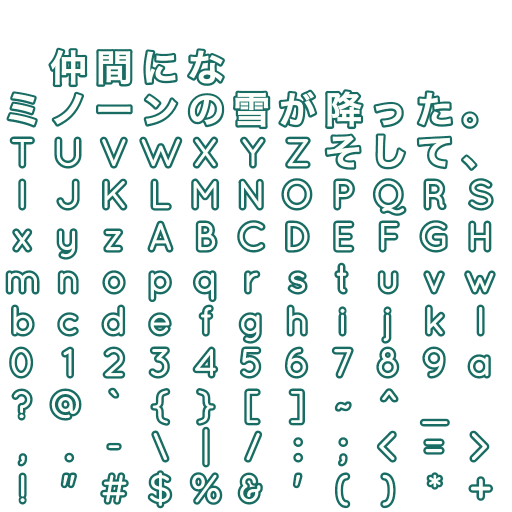
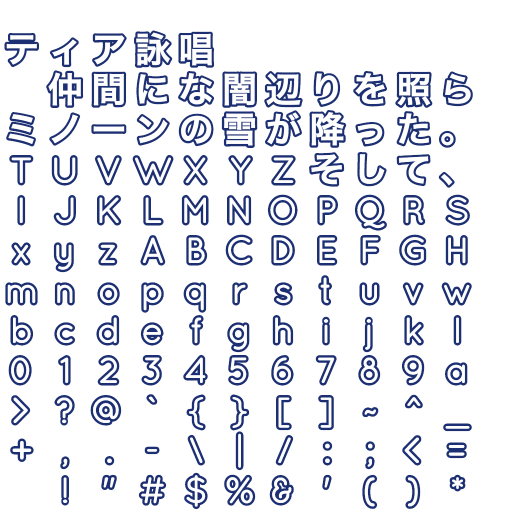
mod clear scene

Changed region(s): [[0.0, 0.0625, 0.9688, 1.0], [0.0938, 0.875, 0.1562, 1.0], [0.0, 0.0625, 0.0938, 0.125]]

diff --git a/demo/mino/lib/gui/clearscene.dart b/demo/mino/lib/gui/clearscene.dart
@@ -13,17 +13,38 @@ class ClearScene extends TinyDisplayObject {
   TinyRect fontDstRect;
   BitmapFontInfo fontInfo;
   TinyPaint p = new TinyPaint();
-  static final String messageOne = "ミノーンの雪が降った。";
-  static final String messageTwo = "ミノーンが仲間になった。";
   String currentMessage  = "";
 
-  ClearScene(this.builder, this.root, int score) {
-    String imgFileName = "assets/bg_clear01.png";
-    currentMessage = messageOne;
-    if(score > 10000) {
-      imgFileName = "assets/bg_clear02.png";
-      currentMessage = messageTwo;
+  List<int> event = [
+//    10,20,30,40
+    0,5000,20000,100000
+  ];
+  List<String> path = [
+    "assets/bg_clear01.png",
+    "assets/bg_clear02.png",
+    "assets/bg_clear03.png",
+   "assets/bg_clear04.png"];
+  List<String> message = [
+     "そして、ミノーンの雪が降った。",
+     "ミノーンが仲間になった。",
+     "闇が辺りを照らした。",
+     "ミーティアを詠唱した。"
+    ];
+
+  int typeFromScore(int score) {
+    int type = 0;
+    for(int i=0;i<event.length;i++) {
+      if(score >= event[i]) {
+        type = i;
+      }
     }
+    return type;
+  }
+
+  ClearScene(this.builder, this.root, int score) {
+    int type = typeFromScore(score);
+    currentMessage = message[type];
+    String imgFileName = path[type];
     builder.loadImage(imgFileName).then((v) {
       bgimg = v;
       srcRect = new TinyRect(0.0, 0.0, bgimg.w.toDouble(), bgimg.h.toDouble());
@@ -61,7 +82,7 @@ class ClearScene extends TinyDisplayObject {
     if(fontimg != null && fontInfo != null) {
       fontInfo.drawText(stage, canvas, 
           fontimg, currentMessage, 
-          20.0, new TinyRect(80.0, 230.0, 400.0, 200.0));
+          20.0, new TinyRect(40.0, 230.0, 350.0, 200.0));
     }
   }
 }

diff --git a/demo/mino/lib/gui/resource.dart b/demo/mino/lib/gui/resource.dart
@@ -9,31 +9,31 @@ class ResourceLoader extends TinyDisplayObject {
 
   load() async {
     try {
-      await builder.loadImage("assets/bg_clear01.png");
-    } catch (e) {}
-    try {
-      await builder.loadImage("assets/bg_clear02.png");
-    } catch (e) {}
-    ;
-    try {
-      await builder.loadImage("assets/se_start.gif");
-      await builder.loadString("assets/se_start.json");
+      await Future.wait([
+      builder.loadImage("assets/bg_clear01.png"),
+      builder.loadImage("assets/bg_clear02.png"),
+      builder.loadImage("assets/bg_clear03.png"),
+      builder.loadImage("assets/bg_clear04.png")
+      ]);      
     } catch (e) {}
     ;
     try {
-      await builder.loadString("assets/se_play.json");
-      await builder.loadImage("assets/se_play.png");
+      await Future.wait([
+        builder.loadImage("assets/se_start.gif"),
+        builder.loadString("assets/se_start.json"),
+        builder.loadString("assets/se_play.json"),
+       builder.loadImage("assets/se_play.png")
+      ]);      
     } catch (e) {}
     ;
 
     try {
-      await builder.loadImage("assets/se_setting.gif");
-      await builder.loadString("assets/se_setting.json");
-    } catch (e) {}
-    ;
-    try {
-      await builder.loadImage("assets/font_a.png");
-      await builder.loadString("assets/font_a.json");
+      await Future.wait([
+        builder.loadImage("assets/se_setting.gif"),
+        builder.loadString("assets/se_setting.json"),
+        builder.loadImage("assets/font_a.png"),
+        builder.loadString("assets/font_a.json"),
+      ]);      
     } catch (e) {}
     ;
 

diff --git a/lib/tinygame/bitmapfont.dart b/lib/tinygame/bitmapfont.dart
@@ -54,7 +54,7 @@ class BitmapFontInfo {
       dst.h = height;
       if((dst.x+dst.w) > rect.w) {
         dst.x  = rect.x;
-        dst.y  = height + 5;
+        dst.y  += height + 5;
       }
       canvas.drawImageRect(stage, fontImg, src, dst, p);
       x = dst.x+dst.w + 2;
